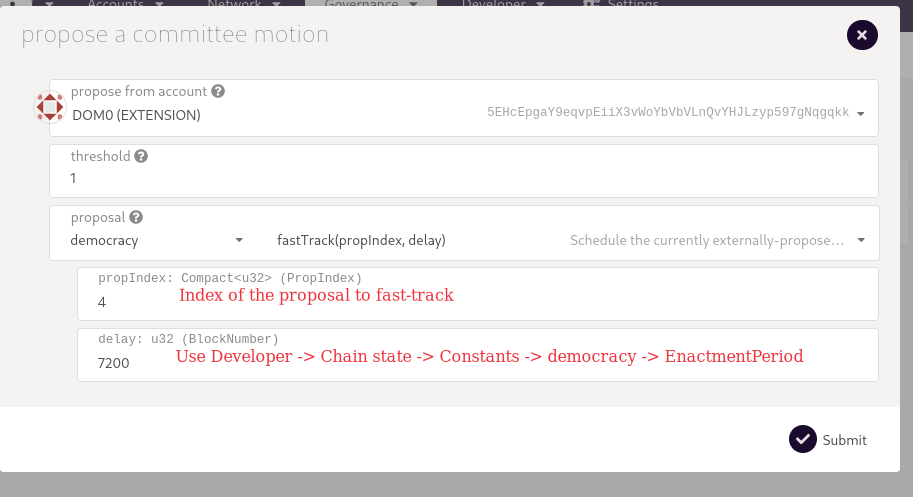
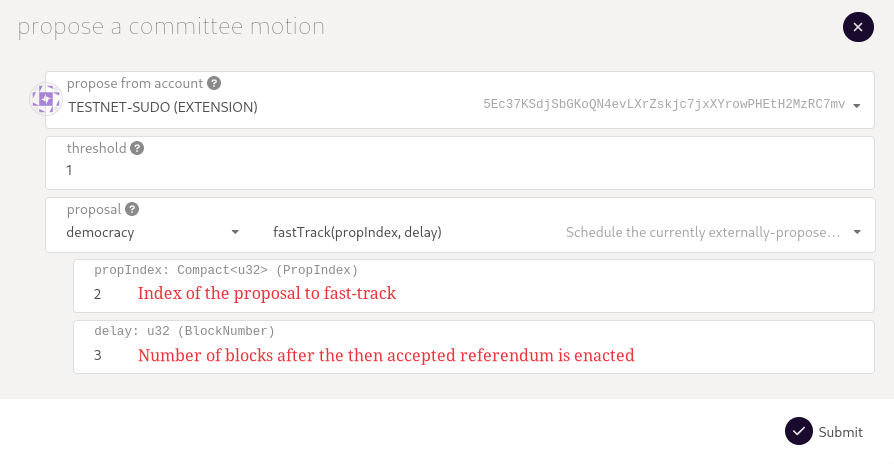
docs: add governance guides

Changed region(s): [[0.0, 0.0, 1.0, 1.0], [0.0302, 0.1509, 0.302, 0.2414], [0.0906, 0.7543, 0.1208, 0.7845]]

diff --git a/docs/guides/governance.md b/docs/guides/governance.md
@@ -5,12 +5,12 @@ Before participating, we recommend to learn about [Kintsugi's governance](kintsu
 
 Following this guide, you will learn the most important aspects of being active in governance:
 
-- [x] Gauging interest via an off-chain proposal
-- [x] Making a public proposal
-- [x] Showing support for proposals to put them up for a vote
-- [x] Making a Treasury proposal
-- [x] Voting on referenda
-- [x] Fast-track a proposal as part of the Technical Committee
+- [x] [Gauging interest via an off-chain proposal](#off-chain-proposals)
+- [x] [Creating a public proposal](#create-a-public-on-chain-proposal)
+- [x] [Showing support for proposals to put them up for a referendum](#show-support-for-a-proposal)
+- [x] [Creating a Treasury proposal](#create-a-treasury-proposal)
+- [x] [Voting on referenda](#vote-on-referenda)
+- [x] [Technical Committee: Fast-track a proposal](#fast-track-a-proposal)
 
 ### Required Tokens
 
@@ -34,7 +34,7 @@ tbd vINTR
 
 ?> Before participating in governance, you will need to have staked your KINT or INTR tokens. Please follow [the guide](guides/stake).
 
-## Off-chain Proposals
+## Off-Chain Proposals
 
 Off-chain proposals are a way to coordinate and gauge the communities opinion on a proposal before making an on-chain proposal. Since the entire process is off-chain, it's free to create proposals and to vote.
 
@@ -54,7 +54,7 @@ Connect the wallet in the top right and then click on "New Proposal" to create a
 
 Connect the wallet in the top right and then select the proposal to vote on.
 
-## Make a Public Proposal
+## Create a Public On-Chain Proposal
 
 Anyone can make a proposal if they have locked enough governance tokens.
 
@@ -74,15 +74,15 @@ Go to Governance -> Democracy -> Submit preimage and propose the change you desi
 
 #### 2. Submit a Proposal
 
-- Go to Developer -> Chain State -> democracy -> preimages and unselect "include option". This will show all current preimages. Check the preimage with your account id (the `provider`) and note down the hash of the preimage.
+Go to Developer -> Chain State -> democracy -> preimages and unselect "include option". This will show all current preimages. Check the preimage with your account id (the `provider`) and note down the hash of the preimage.
 
 ![Preimage Hash](../_assets/img/guide/governance-proposal-2.png)
 
-- Go to Governance -> Democracy -> Submit proposal and insert the preimage hash as well as the amount of vKINT/vINTR to lock for the proposal. The minimum required is automatically selected. Hit "Sign and Submit" to submit the proposal.
+Go to Governance -> Democracy -> Submit proposal and insert the preimage hash as well as the amount of vKINT/vINTR to lock for the proposal. The minimum required is automatically selected. Hit "Sign and Submit" to submit the proposal.
 
 ![Propose](../_assets/img/guide/governance-proposal-3.png)
 
-- It takes some time and might require a hard-refresh (Ctrl + Shift + r) of the browser and eventually the proposal will show up in Governance -> Democracy.
+It takes some time and might require a hard-refresh (Ctrl + Shift + r) of the browser and eventually the proposal will show up in Governance -> Democracy.
 
 ![Proposals](../_assets/img/guide/governance-proposal-4.png)
 
@@ -111,7 +111,7 @@ Once you signed the extrinsic in step 2, you should see your account being liste
 
 ![Proposals](../_assets/img/guide/governance-second-3.png)
 
-## Make a Treasury Proposal
+## Create a Treasury Proposal
 
 Anyone can make a treasury proposal if they have locked enough KINT or INTR.
 
@@ -149,13 +149,50 @@ Select the hash of the preimage and submit the proposal.
 
 Last, second the proposal to give it a chance to become a referenda.
 
-## Vote on a Referenda
+## Vote on Referenda
+
+After a set number of blocks, the proposal with the highest backing staked governance tokens will be put up for a vote.
+Once a proposal is decided to be voted on, it is called a *referendum*.
+
+### SubSquare
+
+You can see all referenda for Kintsugi at https://kintsugi.subsquare.io/democracy/referendums.
+
+#### 1. Make Sure you are Logged-In and Linked your Account
+
+Subsquare requires an account. Make sure to register or log-in:
+
+![Login](../_assets/img/guide/governance-referenda-login.png)
+
+Next, make sure you have a web3 address linked when you go to your in the topbar -> Settings.
+
+![Link Address](../_assets/img/guide/governance-referenda-link-address.png)
+
+#### 2. Select a Referendum
+
+First, click on the referendum you would like to vote on from the list of referenda.
+You will see a description for the referendum, for example the one below:
+
+![Referendum Example](../_assets/img/guide/governance-referenda-example.png)
+
+#### 3. Vote on a Referendum
+
+On the side of the referendum, you see a modal that will allow you to vote on the referendum with your staked governance tokens, i.e., vINTR or vKINT.
+To place a vote, you will send an on-chain transaction locking the staked governance tokens for the period of the vote.
+After the vote has passed, the staked governance tokens are returned to your account.
+
+#### 4. Check the Vote Outcome
+
+Once the voting period is over, you will see the result of the referendum in the same modal that you voted through.
+
+![Outcome](../_assets/img/guide/governance-referenda-1.png)
 
 ## Fast-track a Proposal
 
 If you are a member of the [Kintsugi Technical Committee](kintsugi/governance#technical-committee), you can propose to fast-track proposals.
 
-- Go to Governance -> Tech. comm. -> Propsals -> Submit proposal
-- Enter the id of the proposal which you propose to fast-track
+- Go to Governance -> Tech. comm. -> Proposals -> Submit proposal
+- Enter the id of the proposal which you propose to fast-track to a referendum
+- Enter the delay for the enactment of the referendum. For almost instant enactment us a small block number like 3, for a large delay, use a larger number of blocks.
 
 ![TC](../_assets/img/guide/governance-technical-committee-1.png)
